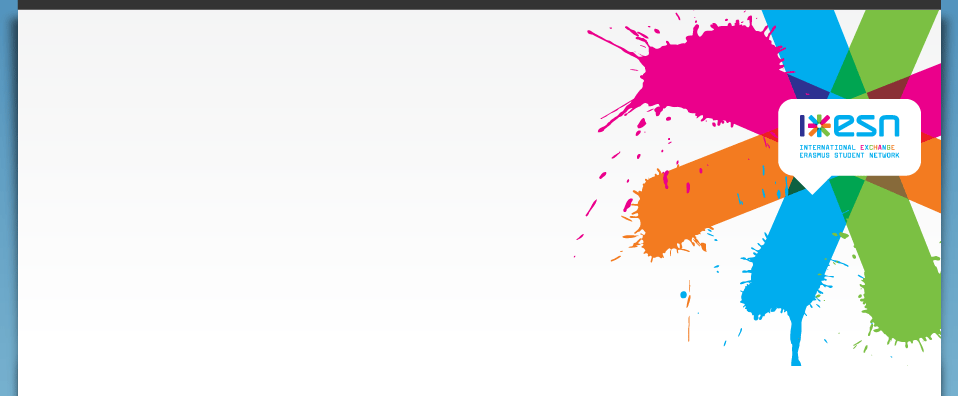
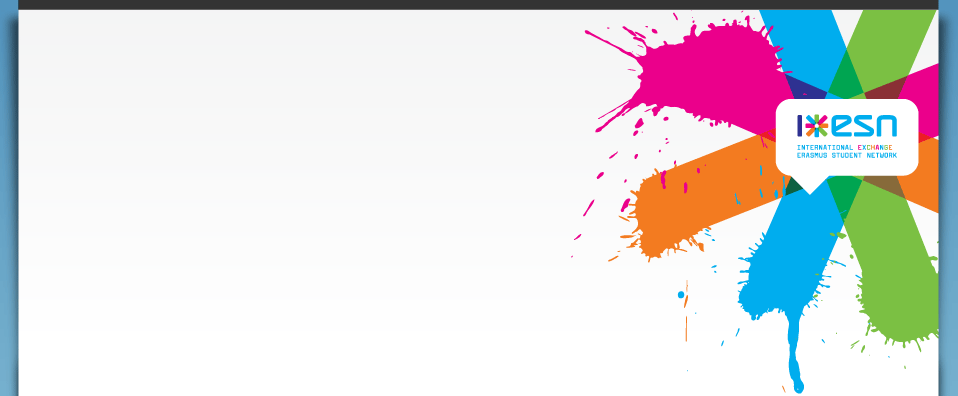
Horizontal scroll fix.
git-svn-id: http://svn.youthagora.org/satellite/trunk@266 724f02df-c632-4e49-bb9a-5d3e6873b890

diff --git a/profiles/satellite/themes/satellite/satellite.css b/profiles/satellite/themes/satellite/satellite.css
@@ -206,3 +206,31 @@ ul li.expanded { background:transparent url(images/menu-expanded.gif) no-repeat 
 
 .more-link { text-transform: uppercase; font-size: .9em; font-weight: bold;}
 .more-link a:before { content: '+ ';}
+
+/*
+#shadow-footer { margin:0 0; }
+body.sidebars #wrapper #container, body.sidebar-left #wrapper #container, body.sidebar-right #wrapper #container { width:943px; }
+*/
+
+
+body.sidebars #wrapper #container,
+body.sidebar-left #wrapper #container,
+body.sidebar-right #wrapper #container { width:944px; }
+body.sidebar-left #center {  margin-left: 0px;}
+body.sidebar-right #center {  margin-right: 0px;}
+body.sidebars #center {  margin: 0 0px;}
+body.sidebars #wrapper #container #center {width: 480px}
+body.sidebars #wrapper #container .sidebar { width: 220px;  float: left;  z-index: 2;  position: relative;}
+#wrapper #container #footer { text-align: left;}
+body #wrapper #container .sidebar { width:307px; }
+
+#shadow-top { background:transparent url(images/layout/shadow_top.png) no-repeat scroll center top; }
+
+body.sidebar-left #wrapper #container #center,
+body.sidebar-right #wrapper #container #center {width: 610px}
+#shadow-footer {padding:0 13px; }
+#header-top { width: 919px; }
+
+
+
+

diff --git a/profiles/satellite/themes/satellite/page.tpl.php b/profiles/satellite/themes/satellite/page.tpl.php
@@ -20,7 +20,6 @@
 	<div class="clear-block"></div>
 
 	<div id="wrapper">
-		<div class="inner">
 			<div id="container" class="clear-block">
 				<div id="shadow">
 					<div id="shadow-top">
@@ -137,7 +136,6 @@
 					</div> 
 				</div> 
 			</div> 
-		</div>
 	</div>
 
 	<?php print $closure ?>
